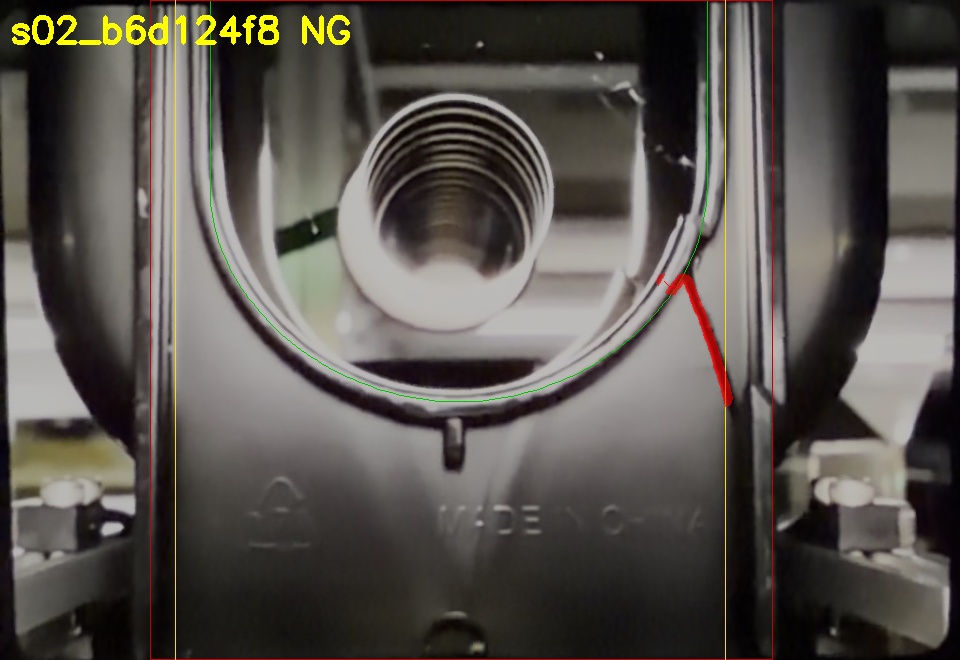
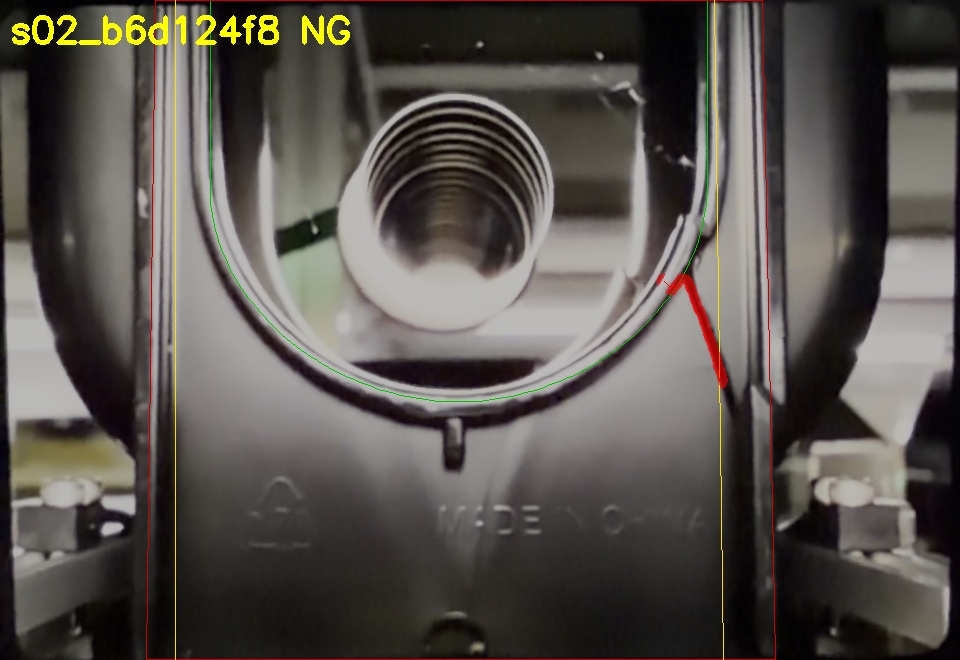
Plate edges and outer frame as slightly tilted lines (photo tilt / keystone); B ratio 0.42; OK 157/157
Claude-Session: https://claude.ai/code/session_01AGHVZAzegJVfdU4wL5nFmJ

diff --git a/gist/crack_v14_bundle.py b/gist/crack_v14_bundle.py
@@ -741,7 +741,7 @@ from .u_detect import detect_geometry
 # ---------------------------------------------------------------- 判定の閾値（調整するのはここ）
 PARAMS = dict(
     ratio_th=0.30,        # 道の上で健全部を通った割合がこれ以下なら「抜けている」（D: 暗い割れ。本物は最大 0.25、OK品の傷は 0.31〜）
-    b_ratio_th=0.50,      # B（明るい割れ）は光が漏れてはっきり明るいので厳しくする（本物は 0.03〜0.06、リブの反射は 0.3 前後）
+    b_ratio_th=0.42,      # B（明るい割れ）は光が漏れてはっきり明るいので厳しくする（実画像の本物は最大 0.38、OK品の反射は 0.48〜）
     gap_th=25.0,          # 割れていない区間が最長でもこれ以下 [px]
     end_gap_inner=15.0,   # 割れが内側の端からこれ以上手前で止まっていたら半割れ（OK） [px]
     end_gap_outer=25.0,   # 割れが外側の端からこれ以上手前で止まっていたら半割れ（OK） [px]
@@ -886,9 +886,9 @@ class Inspector:
                     defects.append(dict(type=t, bbox=(int(x1), int(y1), int(x2), int(y2))))
         types = sorted({t for t in res if any(q["ng"] for q in res[t])})
         u_img = dict(rim=back(geom["opening"][1:-1]), ribs=[back(line) for line in geom["outer"][:2]])
-        if "frame_box" in geom:                                  # カセットの外側の縁（確認用の赤い枠）
-            a_, b_ = geom["frame_box"]; yb_ = max(y for _, y in geom["plate"])
-            u_img["frame"] = back([(a_, 0), (b_, 0), (b_, yb_), (a_, yb_), (a_, 0)])
+        if "frame_poly" in geom:                                 # カセットの外側の縁（確認用の赤い枠）
+            fp = geom["frame_poly"]
+            u_img["frame"] = back(fp + [fp[0]])
         return dict(kind="auto", backlit=lit, u_score=uscore, geom=geom, u_img=u_img, M=M, frame=frame,
                     res=res, judgment="NG" if defects else "OK", defects=defects, detail="+".join(types))
 '''
@@ -1294,6 +1294,33 @@ def find_plate_edges(frame, rim, y_from):
     return out[-1][0], out[1][0], out[-1][1], out[1][1]
 
 
+def fit_tilt(frame, x0, side, y_top, y_bot, win=14, max_slope=0.06):
+    """縦の境目（外へ向かって暗くなる段差）を、少し傾いた直線として探す。
+    写真がわずかに斜め・ハの字のときに、プレートの端や外側の縁を正しく追うため。
+
+    x0 を通る縦線の近く（±win px）で、傾き（±max_slope）と位置を色々試し、
+    線の上全体で「外へ向かって暗くなる強さ」の平均がいちばん大きい直線を選ぶ（ハフ変換と同じ考え方）。
+    戻り値: (y=0 での x, 傾き b)
+    """
+    H, W = frame.shape
+    f = cv2.GaussianBlur(frame.astype(np.float32), (0, 0), 2)
+    g = -side * cv2.Sobel(f, cv2.CV_32F, 1, 0, ksize=5) / 16      # 外へ向かって暗くなると +
+    ys = np.arange(int(y_top), int(y_bot), 2, dtype=np.float32)
+    if len(ys) < 10:
+        return float(x0), 0.0
+    yc = float(ys.mean())
+    best = (-1e9, float(x0), 0.0)
+    for b in np.linspace(-max_slope, max_slope, 25):
+        for dx in range(-win, win + 1):
+            xs = (x0 + dx + b * (ys - yc)).astype(np.float32)
+            v = cv2.remap(g, xs.reshape(1, -1), ys.reshape(1, -1), cv2.INTER_LINEAR)
+            sc = float(np.mean(np.clip(v, -30, 30))) - 0.5 * abs(b) * 100 / 6    # 傾けすぎにはわずかに減点
+            if sc > best[0]:
+                best = (sc, float(x0 + dx), float(b))
+    _, xc, b = best
+    return xc - b * yc, b
+
+
 def find_plate_bottom(frame, lx, rx, y_start):
     """プレートの下の端の高さ。プレートの幅いっぱいに、横一直線のはっきりした明るさの段差がある所。
     （カセットが画像の途中で終わっている撮り方用。見つからなければ画像の下端）"""
@@ -1366,17 +1393,26 @@ def detect_geometry(frame, edge_margin=3, min_thick=40):
         lx, rx = find_ribs(frame, mid[:, 0].min(), mid[:, 0].max(), y_from)
         ox_l, ox_r = lx, rx
     yb = find_plate_bottom(frame, lx, rx, bottom[1] + 60)          # プレートの下の端
+    # 左右の端を、高さごとに測って少し傾いた直線にする（写真の傾き・ハの字に合わせる）
+    yt = max(0.0, open_top)
+    la, lb = fit_tilt(frame, lx, -1, yt, yb)
+    ra, rb = fit_tilt(frame, rx, +1, yt, yb)
+    oa, ob = fit_tilt(frame, ox_l, -1, yt, yb)
+    pa, pb_ = fit_tilt(frame, ox_r, +1, yt, yb)
+    X = lambda a_, b_, y: float(a_ + b_ * y)
     half = (rim[:, 0].max() - rim[:, 0].min()) / 2
     gw = max(18.0, 0.12 * half)                               # ゲートの切り欠きの範囲（U字の大きさに比例）
     g = dict(
         y_eval=int(open_top + 70),                         # 起点は y_eval-60 から = 開口部の一番上から 10px 下まで検査する
         edge_margin=edge_margin, min_thick=min_thick, rim_width=width,
         opening=[(float(rim[0][0]), 0.0)] + [tuple(map(float, p)) for p in rim] + [(float(rim[-1][0]), 0.0)],
-        plate=[(lx, 0.0), (rx, 0.0), (rx, yb), (lx, yb)],
+        plate=[(X(la, lb, 0), 0.0), (X(ra, rb, 0), 0.0), (X(ra, rb, yb), yb), (X(la, lb, yb), yb)],
         rim_ignore=[(float(bottom[0] - gw), float(bottom[1] - 15), float(bottom[0] + gw), float(bottom[1] + 60))],
-        outer=[[(lx + 2, 0.0), (lx + 2, yb)], [(rx - 2, 0.0), (rx - 2, yb)], [(lx, yb - 2.0), (rx, yb - 2.0)]],
+        outer=[[(X(la, lb, 0) + 2, 0.0), (X(la, lb, yb) + 2, yb)], [(X(ra, rb, 0) - 2, 0.0), (X(ra, rb, yb) - 2, yb)],
+               [(X(la, lb, yb), yb - 2.0), (X(ra, rb, yb), yb - 2.0)]],
         center=(float(cx), float(cy)), score=float(total),
         frame_box=(float(ox_l), float(ox_r)),
+        frame_poly=[(X(oa, ob, 0), 0.0), (X(pa, pb_, 0), 0.0), (X(pa, pb_, yb), yb), (X(oa, ob, yb), yb)],
     )
     return g, float(total)
 
@@ -1390,10 +1426,8 @@ def draw_geometry(frame, g):
     vis = cv2.addWeighted(over, 0.25, vis, 0.75, 0)
     vis[m["inner"]] = (0, 220, 0)
     vis[m["outer"]] = (0, 165, 255)                  # オレンジ: 割れの終点（プレートの端）
-    if "frame_box" in g:                             # 赤: カセットの外側の縁
-        a_, b_ = g["frame_box"]
-        yb_ = int(g["plate"][2][1])
-        cv2.rectangle(vis, (int(a_), 1), (int(b_), yb_), (0, 0, 255), 2)
+    if "frame_poly" in g:                            # 赤: カセットの外側の縁
+        cv2.polylines(vis, [np.round(np.array(g["frame_poly"])).astype(np.int32)], True, (0, 0, 255), 2)
     for x0, y0, x1, y1 in g.get("rim_ignore", []):
         cv2.rectangle(vis, (int(x0), int(y0)), (int(x1), int(y1)), (0, 200, 255), 1)
     return vis

diff --git a/crack_v14/u_detect.py b/crack_v14/u_detect.py
@@ -220,6 +220,33 @@ def find_plate_edges(frame, rim, y_from):
     return out[-1][0], out[1][0], out[-1][1], out[1][1]
 
 
+def fit_tilt(frame, x0, side, y_top, y_bot, win=14, max_slope=0.06):
+    """縦の境目（外へ向かって暗くなる段差）を、少し傾いた直線として探す。
+    写真がわずかに斜め・ハの字のときに、プレートの端や外側の縁を正しく追うため。
+
+    x0 を通る縦線の近く（±win px）で、傾き（±max_slope）と位置を色々試し、
+    線の上全体で「外へ向かって暗くなる強さ」の平均がいちばん大きい直線を選ぶ（ハフ変換と同じ考え方）。
+    戻り値: (y=0 での x, 傾き b)
+    """
+    H, W = frame.shape
+    f = cv2.GaussianBlur(frame.astype(np.float32), (0, 0), 2)
+    g = -side * cv2.Sobel(f, cv2.CV_32F, 1, 0, ksize=5) / 16      # 外へ向かって暗くなると +
+    ys = np.arange(int(y_top), int(y_bot), 2, dtype=np.float32)
+    if len(ys) < 10:
+        return float(x0), 0.0
+    yc = float(ys.mean())
+    best = (-1e9, float(x0), 0.0)
+    for b in np.linspace(-max_slope, max_slope, 25):
+        for dx in range(-win, win + 1):
+            xs = (x0 + dx + b * (ys - yc)).astype(np.float32)
+            v = cv2.remap(g, xs.reshape(1, -1), ys.reshape(1, -1), cv2.INTER_LINEAR)
+            sc = float(np.mean(np.clip(v, -30, 30))) - 0.5 * abs(b) * 100 / 6    # 傾けすぎにはわずかに減点
+            if sc > best[0]:
+                best = (sc, float(x0 + dx), float(b))
+    _, xc, b = best
+    return xc - b * yc, b
+
+
 def find_plate_bottom(frame, lx, rx, y_start):
     """プレートの下の端の高さ。プレートの幅いっぱいに、横一直線のはっきりした明るさの段差がある所。
     （カセットが画像の途中で終わっている撮り方用。見つからなければ画像の下端）"""
@@ -292,17 +319,26 @@ def detect_geometry(frame, edge_margin=3, min_thick=40):
         lx, rx = find_ribs(frame, mid[:, 0].min(), mid[:, 0].max(), y_from)
         ox_l, ox_r = lx, rx
     yb = find_plate_bottom(frame, lx, rx, bottom[1] + 60)          # プレートの下の端
+    # 左右の端を、高さごとに測って少し傾いた直線にする（写真の傾き・ハの字に合わせる）
+    yt = max(0.0, open_top)
+    la, lb = fit_tilt(frame, lx, -1, yt, yb)
+    ra, rb = fit_tilt(frame, rx, +1, yt, yb)
+    oa, ob = fit_tilt(frame, ox_l, -1, yt, yb)
+    pa, pb_ = fit_tilt(frame, ox_r, +1, yt, yb)
+    X = lambda a_, b_, y: float(a_ + b_ * y)
     half = (rim[:, 0].max() - rim[:, 0].min()) / 2
     gw = max(18.0, 0.12 * half)                               # ゲートの切り欠きの範囲（U字の大きさに比例）
     g = dict(
         y_eval=int(open_top + 70),                         # 起点は y_eval-60 から = 開口部の一番上から 10px 下まで検査する
         edge_margin=edge_margin, min_thick=min_thick, rim_width=width,
         opening=[(float(rim[0][0]), 0.0)] + [tuple(map(float, p)) for p in rim] + [(float(rim[-1][0]), 0.0)],
-        plate=[(lx, 0.0), (rx, 0.0), (rx, yb), (lx, yb)],
+        plate=[(X(la, lb, 0), 0.0), (X(ra, rb, 0), 0.0), (X(ra, rb, yb), yb), (X(la, lb, yb), yb)],
         rim_ignore=[(float(bottom[0] - gw), float(bottom[1] - 15), float(bottom[0] + gw), float(bottom[1] + 60))],
-        outer=[[(lx + 2, 0.0), (lx + 2, yb)], [(rx - 2, 0.0), (rx - 2, yb)], [(lx, yb - 2.0), (rx, yb - 2.0)]],
+        outer=[[(X(la, lb, 0) + 2, 0.0), (X(la, lb, yb) + 2, yb)], [(X(ra, rb, 0) - 2, 0.0), (X(ra, rb, yb) - 2, yb)],
+               [(X(la, lb, yb), yb - 2.0), (X(ra, rb, yb), yb - 2.0)]],
         center=(float(cx), float(cy)), score=float(total),
         frame_box=(float(ox_l), float(ox_r)),
+        frame_poly=[(X(oa, ob, 0), 0.0), (X(pa, pb_, 0), 0.0), (X(pa, pb_, yb), yb), (X(oa, ob, yb), yb)],
     )
     return g, float(total)
 
@@ -316,10 +352,8 @@ def draw_geometry(frame, g):
     vis = cv2.addWeighted(over, 0.25, vis, 0.75, 0)
     vis[m["inner"]] = (0, 220, 0)
     vis[m["outer"]] = (0, 165, 255)                  # オレンジ: 割れの終点（プレートの端）
-    if "frame_box" in g:                             # 赤: カセットの外側の縁
-        a_, b_ = g["frame_box"]
-        yb_ = int(g["plate"][2][1])
-        cv2.rectangle(vis, (int(a_), 1), (int(b_), yb_), (0, 0, 255), 2)
+    if "frame_poly" in g:                            # 赤: カセットの外側の縁
+        cv2.polylines(vis, [np.round(np.array(g["frame_poly"])).astype(np.int32)], True, (0, 0, 255), 2)
     for x0, y0, x1, y1 in g.get("rim_ignore", []):
         cv2.rectangle(vis, (int(x0), int(y0)), (int(x1), int(y1)), (0, 200, 255), 1)
     return vis

diff --git a/crack_v14/inspect_v14.py b/crack_v14/inspect_v14.py
@@ -21,7 +21,7 @@ from .u_detect import detect_geometry
 # ---------------------------------------------------------------- 判定の閾値（調整するのはここ）
 PARAMS = dict(
     ratio_th=0.30,        # 道の上で健全部を通った割合がこれ以下なら「抜けている」（D: 暗い割れ。本物は最大 0.25、OK品の傷は 0.31〜）
-    b_ratio_th=0.50,      # B（明るい割れ）は光が漏れてはっきり明るいので厳しくする（本物は 0.03〜0.06、リブの反射は 0.3 前後）
+    b_ratio_th=0.42,      # B（明るい割れ）は光が漏れてはっきり明るいので厳しくする（実画像の本物は最大 0.38、OK品の反射は 0.48〜）
     gap_th=25.0,          # 割れていない区間が最長でもこれ以下 [px]
     end_gap_inner=15.0,   # 割れが内側の端からこれ以上手前で止まっていたら半割れ（OK） [px]
     end_gap_outer=25.0,   # 割れが外側の端からこれ以上手前で止まっていたら半割れ（OK） [px]
@@ -166,8 +166,8 @@ class Inspector:
                     defects.append(dict(type=t, bbox=(int(x1), int(y1), int(x2), int(y2))))
         types = sorted({t for t in res if any(q["ng"] for q in res[t])})
         u_img = dict(rim=back(geom["opening"][1:-1]), ribs=[back(line) for line in geom["outer"][:2]])
-        if "frame_box" in geom:                                  # カセットの外側の縁（確認用の赤い枠）
-            a_, b_ = geom["frame_box"]; yb_ = max(y for _, y in geom["plate"])
-            u_img["frame"] = back([(a_, 0), (b_, 0), (b_, yb_), (a_, yb_), (a_, 0)])
+        if "frame_poly" in geom:                                 # カセットの外側の縁（確認用の赤い枠）
+            fp = geom["frame_poly"]
+            u_img["frame"] = back(fp + [fp[0]])
         return dict(kind="auto", backlit=lit, u_score=uscore, geom=geom, u_img=u_img, M=M, frame=frame,
                     res=res, judgment="NG" if defects else "OK", defects=defects, detail="+".join(types))
